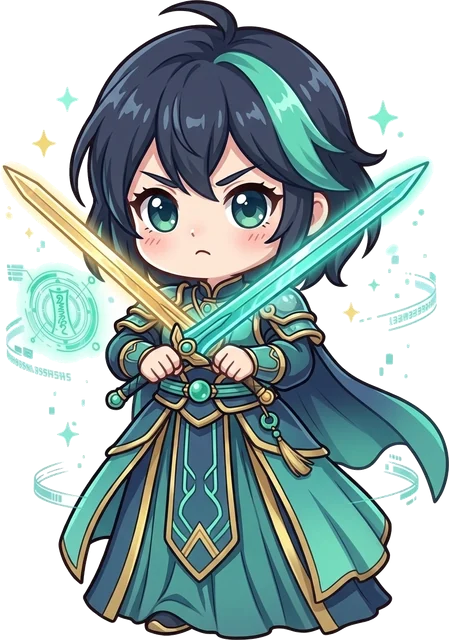
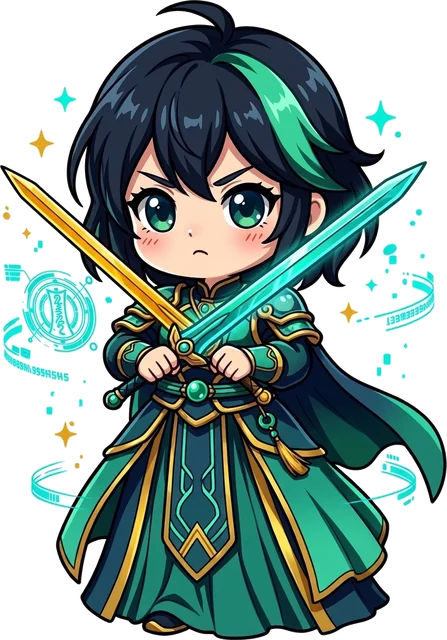
docs: vivid 2D + 3D mascots, Anton for all-caps only
- Regenerate the nine mascots in Google Flow as vivid, high-contrast chibi art
  (bold outlines, cel shading, saturated colors) and add a 3D figure version
  of each (<id>-3d.webp, floor shadow turned into a soft alpha shadow)
- "Meet the Sect" gets a 2D/3D toggle
- Headings, hero name, nav title and 404 title use Changa One; Anton is kept
  only for all-caps display text (the giant backdrop word)
- docs/scripts/mascots.md records the Flow sources and prompts

diff --git a/docs/.vitepress/theme/components/SectRoster.vue b/docs/.vitepress/theme/components/SectRoster.vue
@@ -1,6 +1,9 @@
 <script setup lang="ts">
 import { withBase } from 'vitepress'
+import { ref } from 'vue'
 import { mascots } from '../mascots'
+
+const view = ref<'2d' | '3d'>('2d')
 </script>
 
 <template>
@@ -12,11 +15,15 @@ import { mascots } from '../mascots'
         RBAC Evolution is a sect: roles are ranks, permissions are technique scrolls, and these nine keep watch over
         each chapter.
       </p>
+      <div class="switch" role="group" aria-label="Character art style">
+        <button type="button" :aria-pressed="view === '2d'" @click="view = '2d'">2D</button>
+        <button type="button" :aria-pressed="view === '3d'" @click="view = '3d'">3D</button>
+      </div>
       <ul class="cards">
         <li v-for="m in mascots" :key="m.id" class="card" :style="{ '--accent': m.accent }">
           <a :href="withBase(m.link)" class="card-link">
             <span class="portrait">
-              <img :src="withBase(`/mascots/${m.id}.webp`)" :alt="`${m.name}, the ${m.title}`" loading="lazy" width="200" height="260" />
+              <img :src="withBase(`/mascots/${m.id}${view === '3d' ? '-3d' : ''}.webp`)" :alt="`${m.name}, the ${m.title}`" loading="lazy" width="200" height="260" />
             </span>
             <span class="meta">
               <span class="role">{{ m.role }}</span>
@@ -47,10 +54,10 @@ import { mascots } from '../mascots'
   margin: 0 0 6px;
 }
 h2 {
-  font-family: var(--sect-font-display);
+  font-family: var(--sect-font-label);
   font-weight: 400;
-  font-size: clamp(40px, 6vw, 72px);
-  line-height: 1;
+  font-size: clamp(34px, 4.8vw, 56px);
+  line-height: 1.05;
   margin: 0 0 12px;
   border: 0;
   padding: 0;
@@ -59,6 +66,28 @@ h2 {
   max-width: 640px;
   color: var(--vp-c-text-2);
   margin: 0 0 36px;
+}
+.switch {
+  display: inline-flex;
+  margin: -12px 0 28px;
+  border: 2px solid var(--vp-c-text-1);
+  border-radius: 2px;
+}
+.switch button {
+  min-width: 56px;
+  min-height: 40px;
+  padding: 0 14px;
+  font-family: var(--sect-font-label);
+  font-size: 15px;
+  color: var(--vp-c-text-1);
+}
+.switch button[aria-pressed='true'] {
+  background: var(--vp-c-text-1);
+  color: var(--vp-c-bg);
+}
+:global(.dark .roster .switch button[aria-pressed='true']) {
+  background: var(--sect-yellow);
+  color: var(--sect-ink);
 }
 .cards {
   list-style: none;

diff --git a/docs/.vitepress/theme/style.css b/docs/.vitepress/theme/style.css
@@ -2,8 +2,8 @@
    RBAC Evolution docs — "Sect of Evolution", industrial edition
    Acid yellow on ink, jade as the sect's second color. Solid colors only:
    no glows, no translucent washes.
-   Fonts: Anton (display), Changa One (labels), Plus Jakarta Sans (text),
-   Yellowtail (handwritten accents). Code uses the system monospace.
+   Fonts: Changa One (headings, labels), Plus Jakarta Sans (text), Yellowtail
+   (handwritten accents), Anton only for ALL-CAPS display text. Code uses the system monospace.
    ========================================================================== */
 
 /* ---------- tokens ---------- */
@@ -136,10 +136,10 @@
   background: transparent !important;
 }
 .VPNavBarTitle .title {
-  font-family: var(--sect-font-display);
-  font-size: 20px;
+  font-family: var(--sect-font-label);
+  font-size: 19px;
   font-weight: 400;
-  letter-spacing: 0.02em;
+  letter-spacing: 0;
 }
 .VPNavBarTitle .logo {
   height: 30px;
@@ -158,13 +158,13 @@
 /* ---------- typography ---------- */
 .VPHero .name,
 .vp-doc h1 {
-  font-family: var(--sect-font-display);
+  font-family: var(--sect-font-label);
   font-weight: 400;
   letter-spacing: 0.01em;
 }
 .VPHero .name {
-  font-size: clamp(52px, 8vw, 92px) !important;
-  line-height: 0.95 !important;
+  font-size: clamp(44px, 6.4vw, 76px) !important;
+  line-height: 1 !important;
 }
 .VPHero .text {
   font-family: var(--sect-font-label);
@@ -192,8 +192,8 @@
   border-width: 2px !important;
 }
 .vp-doc h1 {
-  font-size: 44px;
-  line-height: 1.05;
+  font-size: 40px;
+  line-height: 1.1;
 }
 .vp-doc h2,
 .vp-doc h3,

diff --git a/docs/.vitepress/theme/components/EvolutionPath.vue b/docs/.vitepress/theme/components/EvolutionPath.vue
@@ -175,10 +175,10 @@ onBeforeUnmount(() => {
   margin: 0 0 6px;
 }
 h2 {
-  font-family: var(--sect-font-display);
+  font-family: var(--sect-font-label);
   font-weight: 400;
-  font-size: clamp(40px, 6vw, 72px);
-  line-height: 1;
+  font-size: clamp(34px, 4.8vw, 56px);
+  line-height: 1.05;
   margin: 0 0 12px;
 }
 .lede {

diff --git a/docs/.vitepress/theme/components/NotFound.vue b/docs/.vitepress/theme/components/NotFound.vue
@@ -39,9 +39,9 @@ img {
   background: var(--sect-yellow);
 }
 h1 {
-  font-family: var(--sect-font-display);
+  font-family: var(--sect-font-label);
   font-weight: 400;
-  font-size: clamp(32px, 5vw, 52px);
+  font-size: clamp(28px, 4vw, 42px);
   line-height: 1.05;
   max-width: 640px;
   margin: 0;

diff --git a/docs/.vitepress/theme/components/HeroBackdrop.vue b/docs/.vitepress/theme/components/HeroBackdrop.vue
@@ -100,7 +100,9 @@ onBeforeUnmount(() => {
   left: 2%;
   bottom: 70px;
   margin: 0;
+  /* Anton is only used for all-caps display text. */
   font-family: var(--sect-font-display);
+  text-transform: uppercase;
   font-size: clamp(120px, 22vw, 340px);
   line-height: 0.8;
   white-space: nowrap;

diff --git a/docs/scripts/mascots.md b/docs/scripts/mascots.md
@@ -1,0 +1,41 @@
+# Mascot art sources
+
+The nine "Sect of Evolution" mascots in `docs/public/mascots/` are generated in Google Flow
+(Nano Banana), in the maintainer's Flow project **"Nov 14 - 13:00"**. Every file has a 2D
+version (`<id>.webp`) and a 3D figure version (`<id>-3d.webp`).
+
+| id | Character | Flow tile title |
+| --- | --- | --- |
+| sect-master | Yue, Sect Master | Redraw character as chibi mascot |
+| gatekeeper | Rin, Blade Gatekeeper | Blade Gatekeeper chibi redrawn |
+| scroll-keeper | Mei, Scroll Keeper | Chibi Scroll Keeper explaining scrolls |
+| twins | Hana & Sora, Branch Twins | Twin sisters standing back to back |
+| disciple | Tao, New Disciple | Redrawing disciple as chibi character |
+| weaver | Lan, Formation Weaver | Formation weaver casting rune circle |
+| alchemist | Xia, Pill Alchemist | Alchemist holding pill furnace |
+| messenger | Feng, Spirit Messenger | Spirit Messenger running happily |
+| spirit-fox | Kitsu, Spirit Fox | Spirit fox sitting with question mark |
+
+Each tile's version history holds: original chibi → vivid 2D → 3D figure.
+
+## Prompts
+
+Vivid 2D (with the previous chibi image as the reference):
+
+> Redraw this exact same chibi character (same face, hair, outfit, props and pose) as a vivid,
+> high-contrast version: bold clean dark outlines, crisp cel shading, strong saturated colors true to
+> the character's own palette, punchy highlights and clear shadows. No pastel wash, no soft glow haze,
+> no faded colors. Cute chibi game mascot style, full body, centered, plain pure white background, no text.
+
+3D figure (edit of the vivid 2D version):
+
+> Turn this exact chibi character into a 3D rendered chibi collectible figure: stylized 3D toon render
+> (Blender / game character style), smooth sculpted forms, soft studio lighting with a crisp rim light,
+> vivid saturated colors matching the original, same face, hair, outfit, props and pose. Full body,
+> centered, plain pure white background, no base or stand, no text.
+
+## Export
+
+Download "1K original" from Flow, then remove the white background and export WebP (height 640):
+flood-fill near-white pixels from the image border to transparent; for the 3D renders the grey floor
+shadow (bottom 22% of the image, near-neutral and light) becomes a soft black shadow with alpha.
